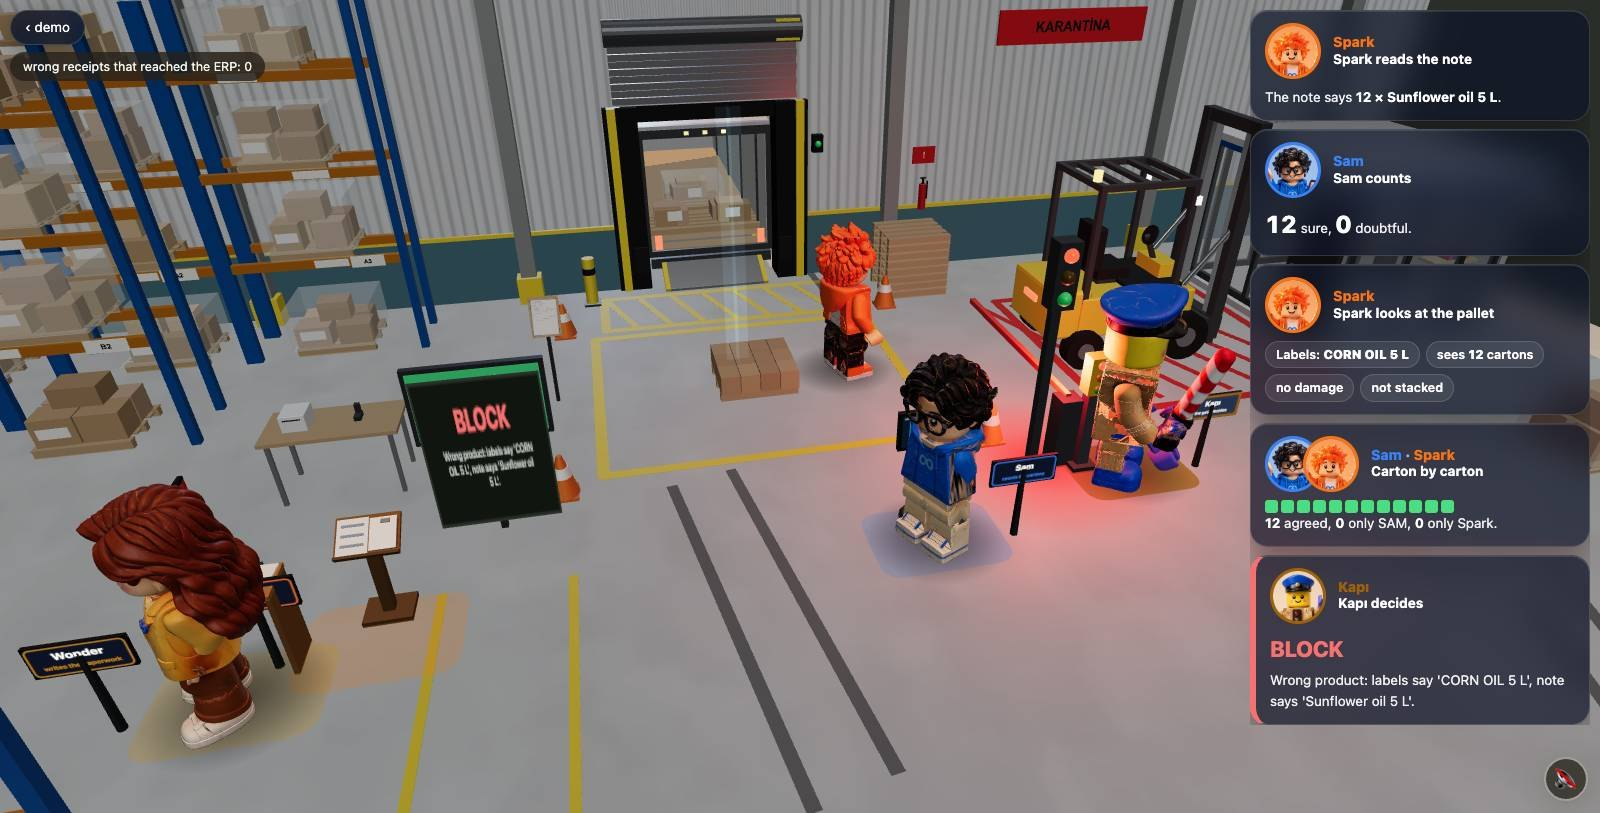
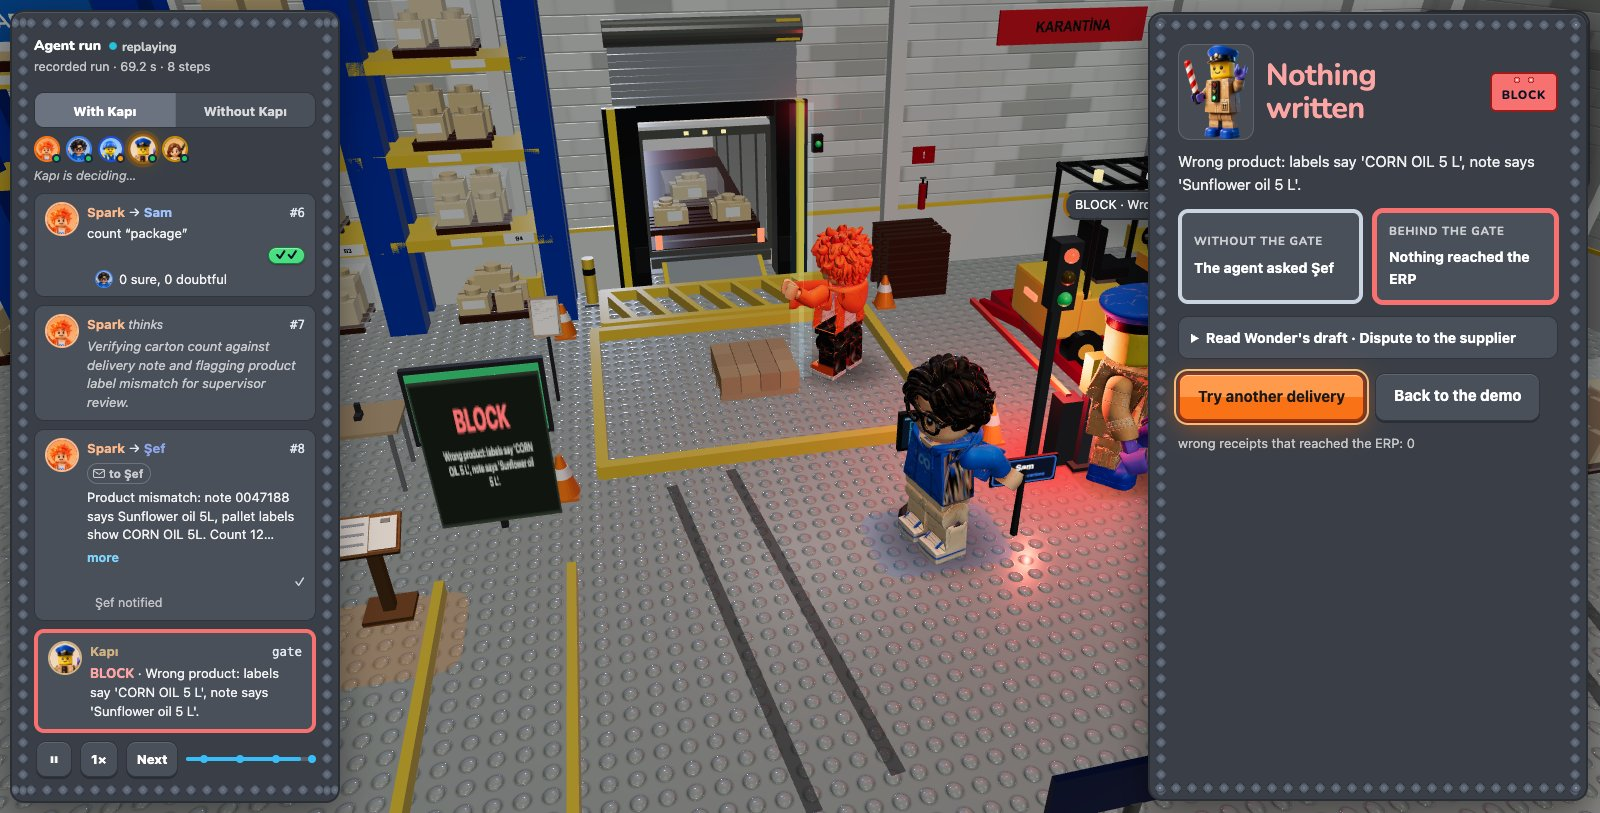
README: the first simulator's pictures retaken from today's /sim (LEGO dock, chat feed, result panel): a blocked wrong-product delivery and a damaged one sent to Şef at the meeting table

diff --git a/README.md b/README.md
@@ -232,7 +232,7 @@ screen. The result shows what the same agent did without the gate, next to what 
 through. Arrows or WASD drive, Space picks up and sets down, C changes the camera (chase,
 driver's seat, overview); on a phone, a touch joystick.
 
-![The gate decides a wrong-product delivery: Spark beside the pallet reading the labels, Sam's ceiling camera scanning, Kapı at the barrier, Wonder at her desk, the reading cards on the right](assets/readme/sim-decision.jpg)
+![The gate blocks a wrong-product delivery in the LEGO dock: the recorded agent run as a chat on the left, Spark at the pallet, Sam and Kapı at the barrier, the BLOCK screen, and on the right the result: nothing written, with and without the gate](assets/readme/sim-decision.jpg)
 
 - **Who works the case.** Only the characters a delivery actually needs are on the floor, each
   at a workstation with a job sign: Spark at the reading lectern, Sam under the ceiling camera,
@@ -259,7 +259,7 @@ driver's seat, overview); on a phone, a touch joystick.
   projected screen boxes, so no character covers the pallet, the gate's screen or another
   character.
 
-![The ten character rooms on two storeys, seen from the yard](assets/readme/sim-rooms.jpg)
+![A damaged delivery goes to Şef: Kapı at the meeting table in front of the character rooms, the agent run on the left, "Sent to Şef" on the right](assets/readme/sim-meeting.jpg)
 
 Written by Muse Code over many rounds (see [What Muse Code built](#what-muse-code-built)); the
 dock and the rooms are Blender scenes (`experiments/blender/warehouse.py`, `CBYP_POLISH=1`)
